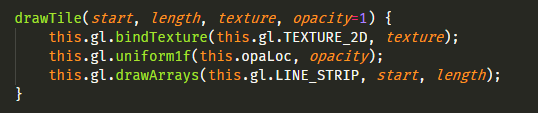
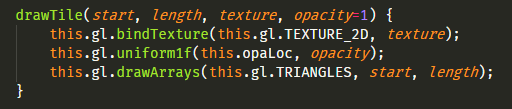
chapter rework

Changed region(s): [[0.0, 0.055, 0.9062, 0.578], [0.0938, 0.578, 0.9688, 0.7431], [0.0312, 0.7706, 0.0625, 0.9083]]

diff --git a/README.md b/README.md
@@ -1,62 +1,66 @@
 # Micrio v3: The Road From JavaScript To AssemblyScript Using WebAssembly
-### From JavaScript to AssemblyScript in 3 iterations
+## From JavaScript to AssemblyScript in 3 iterations
+
+
+# Abstract
+
+WebAssembly (WASM) is the ability for your browser to run *compiled* code at (near-) native speeds. It is now recognised by the W3C as the [4th official web programming language](https://www.w3.org/2019/12/pressrelease-wasm-rec.html.en), after HTML, CSS and JavaScript.
+
+Micrio is [...]
 
 
 
-## Table of Contents
+# Table of Contents
 
-1. **Introduction**:
+1. **[Introduction](#1-introduction)**:
 What is Micrio, what is this article about, setting constraints: client side app migrating from JS to AssemblyScript//WebAssembly.
 
-2. **Current Situation**:
+2. **[Current Situation](#2-the-current-situation)**:
 Micrio 2.9, short history, techstack, browser compatibility.
 
-3. **[WebAssembly](#3-webassembly)**
+3. **[The Discovery](#3-the-discovery)**:
+Asm.js old demos, WASM summit at Google Feb 2020
 
-	1. **[The Discovery](#31-the-discovery)**:
-	Asm.js old demos, WASM summit at Google Feb 2020
+4. **[The Rewrite: C++ and emscripten](#4-the-rewrite-c-and-emscripten)**:
+From JS to C++
 
-	2. **[The Rewrite (1)](#32-the-rewrite-c-and-emscripten)**:
-	From JS to C++
-
-	3. **[First Results](#33-first-results)**:
+	1. **[First Results](#41-first-results)**:
 	How C++ was not the perfect choice
 
-	4. **[The Rewrite (2)](#34-the-rewrite-assemblyscript)**:
-	The initial application of AssemblyScript WASM to Micrio 2.9
+5. **[The Rewrite: AssemblyScript](#5-the-rewrite-assemblyscript)**:
+The initial application of AssemblyScript WASM to Micrio 2.9
 
-	5. **[The Realization](#35-the-realization)**:
-	The *“But can it do more for Micrio?”* process -- how it took 4 weeks to come up with a masterplan
+6. **[The Realization](#6-the-realization)**:
+The *“But can it do more for Micrio?”* process -- how it took 4 weeks to come up with a masterplan
 
-	6. **[The Rewrite (3)](#36-the-rewrite-assemblyscript-webgl)**:
-	4 months of back to the drawing board -- back to basics with WebGL and manually created memory buffers
+7. **[The Rewrite: AssemblyScript &amp; WebGL](#7-the-rewrite-assemblyscript-webgl)**:
+4 months of back to the drawing board -- back to basics with WebGL and manually created memory buffers
 
-		1. **[Directly connecting WebAssembly's Memory to WebGL](#361-connecting-webassemblys-memory-to-webgl)**:
-		Taking JS out of the equasion
+	1. **[Directly connecting WebAssembly's Memory to WebGL](#71-connecting-webassemblys-memory-to-webgl)**:
+	Taking JS out of the equasion
 
-		2. **[Doing the hard work](#362-doing-the-hard-work)**:
-		Back to square zero
+	2. **[Doing the hard work](#72-doing-the-hard-work)**:
+	Back to square zero
 
 
-	7. **The Benchmark**:
-	What and how to measure, what to improve
+8. **The Benchmark**:
+What and how to measure, what to improve
 
-	8. **The Rewrite (4)**:
-	Putting everything together in a single JS file, making it work on all browsers, reducing clutter and last minute code optimizations
+9. **The Rewrite: Optimizing everything**:
+Putting everything together in a single JS file, making it work on all browsers, reducing clutter and last minute code optimizations
 
-	9. **The Satisfaction**:
-	Finishing touches and real world results
+10. **The Satisfaction**:
+Finishing touches and real world results
 
-4. **Conclusions**:
+11. **Conclusions**:
 The result: pros and cons. When (not) to use WASM, best practices, thoughts on the future.
 
-5. **Afterthoughts and the future**:
+12. **Afterthoughts and the future**:
 Compiling for the web, server microservices using WASM, freedom of choice of programming language, and how it will really change the landscape of technology, the fabric of our world, and might be the ultimate answer of life, the universe, and everything.
 
 
 
-
-## 3. WebAssembly
+# 1. Introduction
 
 WebAssembly (WASM) is the ability for your browser to run *compiled* code at (near-) native speeds. It is now recognised by the W3C as the [4th official web programming language](https://www.w3.org/2019/12/pressrelease-wasm-rec.html.en), after HTML, CSS and JavaScript.
 
@@ -65,8 +69,12 @@ Basically, this means you can run compiled code written in a variety of programm
 This section will be the tale of my discovery of WebAssembly, and the journey to migrating the 2.9 Micrio version written in plain JavaScript to WebAssembly as much as possible.
 
 
+# 2. The Current Situation
 
-### 3.1. The Discovery
+Micrio 2.9, blabla
+
+
+# 3. The Discovery
 
 Already back in 2013, a [demo was released](https://www.youtube.com/watch?v=BV32Cs_CMqo) by the Mozilla team running Unreal Engine 3 in the Firefox browser at 60fps, using a port of the engine made ready for the web in only 4 days of work.
 
@@ -82,7 +90,7 @@ That day was a real eye-opener on what WebAssembly can do, was already doing, an
 
 
 
-### 3.2. The Rewrite: C++ and emscripten
+# 4. The Rewrite: C++ and emscripten
 
 Prior to the WebAssembly Summit, and to get to know the ecosystem, I finally followed up on my mental note from 2013 to play around with [emscripten](https://emscripten.org/). Basically you can take almost any project made in `C` or `C++`, and compile it to a binary `.wasm`-file, that your browser can natively run. 
 
@@ -104,21 +112,20 @@ The largest struggle of this was picking up `C++` again, never having used it ou
 You can see this version running here: https://b.micr.io/_test/wasm/index.html
 
 
-
-### 3.3. First Results
+## 4.1. First Results
 
 As incredibly awesome it was to see Micrio in `C++` running smoothly in my browser, and even handing all the user's input, there were a few reservations, which left me with an unsatisfied feeling.
 
 
-#### 1. Coding C++ felt old-fashioned
+### 1. Coding C++ felt old-fashioned
 Writing C++ felt like going back in time. Incredibly powerful and fully proven, but also archaic, especially as a web developer. I spent more time fiddling with making an optimized `Makefile` than I care to admit.
 
 ![The emscripten C++ Makefile](img/makefile.png "( ͡° ͜ʖ ͡°)")
 
-#### 2. The compiled `.wasm` binary was very large
+### 2. The compiled `.wasm` binary was very large
 As great as the help of `libsdl` and `stb_image.h` were to let me use OpenGL and JPG image functions, as much did they add to the final compiled binary file. Even with all `emcc` compiler optimizations (which can even use the awesome `closure` JS compiler), the resulting WebAssembly binary file was 760KB; compared to the JavaScript version of Micrio being around 240KB, this was a major setback. These libraries packed a lot of functionalities that were not necessary for Micrio, but were still included in the compiled version.
 
-#### 3. TIL: A *glue* file
+### 3. TIL: A *glue* file
 This is the part where I learnt where the limits of WebAssembly start and finish. **WebAssembly is not a magical self-contained binary that lets you run full applications out of the box**. It actually needs to be *bound* to the browser using JavaScript.
 
 Where I thought that all the SDL OpenGL code in C++ would automagically be recognised by the browser: *wrong*. What `emscripten` does, is to take all OpenGL operations from C++, and _converting them_ to WebGL operations your browser can understand.
@@ -131,7 +138,7 @@ However, it's extremely neat that there is a C++ port of Micrio that would run n
 
 
 
-### 3.4. The Rewrite: AssemblyScript
+# 5. The Rewrite: AssemblyScript
 
 Fast forward a few months, to just after the WebAssembly Summit in Mountain View in February 2020. With a bundle of fresh energy and inspiration, I decided to see if I could use WebAssembly to improve the Micrio JavaScript client a second time.
 
@@ -160,7 +167,7 @@ Since I now had some extra performing hands on deck for Micrio that was very eas
 This approach worked wonderfully. Zero weird bugs and errors, and (marginal) better performance. The Micrio 2.9-release has been running WASM for a while already!
 
 
-### 3.5 The Realization
+# 6. The Realization
 
 Okay, so, mission succeeded! The simplest math functions inside the Micrio JS were now handled by WebAssembly. But all rendering logic (Canvas2D for flat images and WebGL for 360&deg; images) was still 100% JavaScript.
 
@@ -188,7 +195,7 @@ So kind of like the C++ emscripten implementation, but this time using the lean 
 
 
 
-### 3.6 The Rewrite: AssemblyScript + WebGL
+# 7. The Rewrite: AssemblyScript + WebGL
 
 _Third time's a charm._
 
@@ -199,7 +206,7 @@ This iteration, I used what I've learned in my previous two iterations:
 
 Back to the drawing board. What I was going to make was a single WebGL renderer, used for both the 2D and 360&deg; Micrio images, so I could do away with the Canvas2D and THREEjs implementations, not only (hopefully) improving performance, but being able to throw away *a lot* of JS code.
 
-#### 3.6.1. Connecting WebAssembly's memory to WebGL
+## 7.1. Connecting WebAssembly's memory to WebGL
 
 WebAssembly runs within its own sandbox, using its own requested amount of memory. For instance, a WebAssembly program can request 16MB of memory to work with. This memory is assigned by the browser, and can be fully used by your WebAssembly program.
 
@@ -218,18 +225,18 @@ That means that the output of WebAssembly is **directly connected** to WebGL's i
 
 
 
-#### 3.6.2. Doing the hard work
+## 7.2. Doing the hard work
 
 This is where it became more difficult. I had to *actually* take all the JS code for rendering 2D images using Canvas2D and 360&deg; images using THREEjs/WebGL, and rewrite it in such a way that all that logic is ported to AssemblyScript.
 
 This required a few steps, which I will not fully document here since it's out of scope (*next blogpost: WebGL?*):
 
-##### Get the logic of the image `tiles` from JS to AssemblyScript
+### Get the logic of the image `tiles` from JS to AssemblyScript
 The input for AssemblyScript are only image parameters: a unique ID, the image width and height. The output must be WebGL-ready vertex and texture UV array buffers, containing all coordinates of all tiles and their individual texture mappings.
 
 WebGL in its raw form gives you only low level functions to work with. Where drawing a tile in Canvas2D was simply using `context.drawImage(...)` with some relative coordinates, now all tiles should be united in a single vertex buffer having static positions, which WebGL will draw relative to a virtual camera's 3D Matrix.
 
-##### 2D images
+### 2D images
 Now, the geometry for a 2D image is not that difficult. It is a flat plane inside the 3D space; all logic can be written as 2D coordinates, where `z` is always 0. A single tile is simply defined as a flat plane, with 6 vertex coordinates (your GPU thinks in *triangles*, so every rectangle consists of `2 * 3` vertex coordinates).
 
 ![A rectangle represented as triangles in GL](img/triangle.png)
@@ -237,7 +244,7 @@ Now, the geometry for a 2D image is not that difficult. It is a flat plane insid
 *Courtesy of [OpenGLBook.com](https://openglbook.com/chapter-2-vertices-and-shapes.html)*
 
 
-#### 360&deg; images
+### 360&deg; images
 For the 360 images, this proved to be a larger challenge. Where THREEjs has added a super awesome higher level API where I was using `THREE.SphereBufferGeometry` to create the individual tiles inside the 360 sphere, resulting in all geometry and texture mapping being taken care of, now I had to go back to middle school and refamiliarize myself with all `sin`, `cos` and `tan` math knowledge.
 
 I really, really wish I paid better attention in school then.
@@ -255,9 +262,9 @@ It all makes sense. But it took a long time before I got it right; not even ment
 All this results in a single array buffer useable by WebGL, generated at runtime.
 
 
-##### Getting WebGL to only render the tiles that are inside your screen
+### Getting WebGL to only render the tiles that are inside your screen
 
-This is what's so cool about WebGL: you can tell it to render certain *parts* of your geometry buffer. All I need is to know the individual tiles' buffer start index, and the number of coordinates the tile uses in 3d space, and those are the only parameters to pass to WebGL to draw this tile (alongside the correct texture reference-- disregarded here).
+This is what's so cool about WebGL: you can tell it to render certain *parts* of your pregenerated geometry buffer. All I need is to know the individual tiles' buffer start index, and the number of coordinates the tile uses in 3d space, and those are the only parameters to pass to WebGL to draw this tile (alongside the correct texture reference-- disregarded here).
 
 The functions to decide what those tiles are, are quite different for 2D and 360&deg; images, the latter using a lot of 3D Matrix calculations, which would definitely benefit from the move of JS to AssemblyScript.
 
